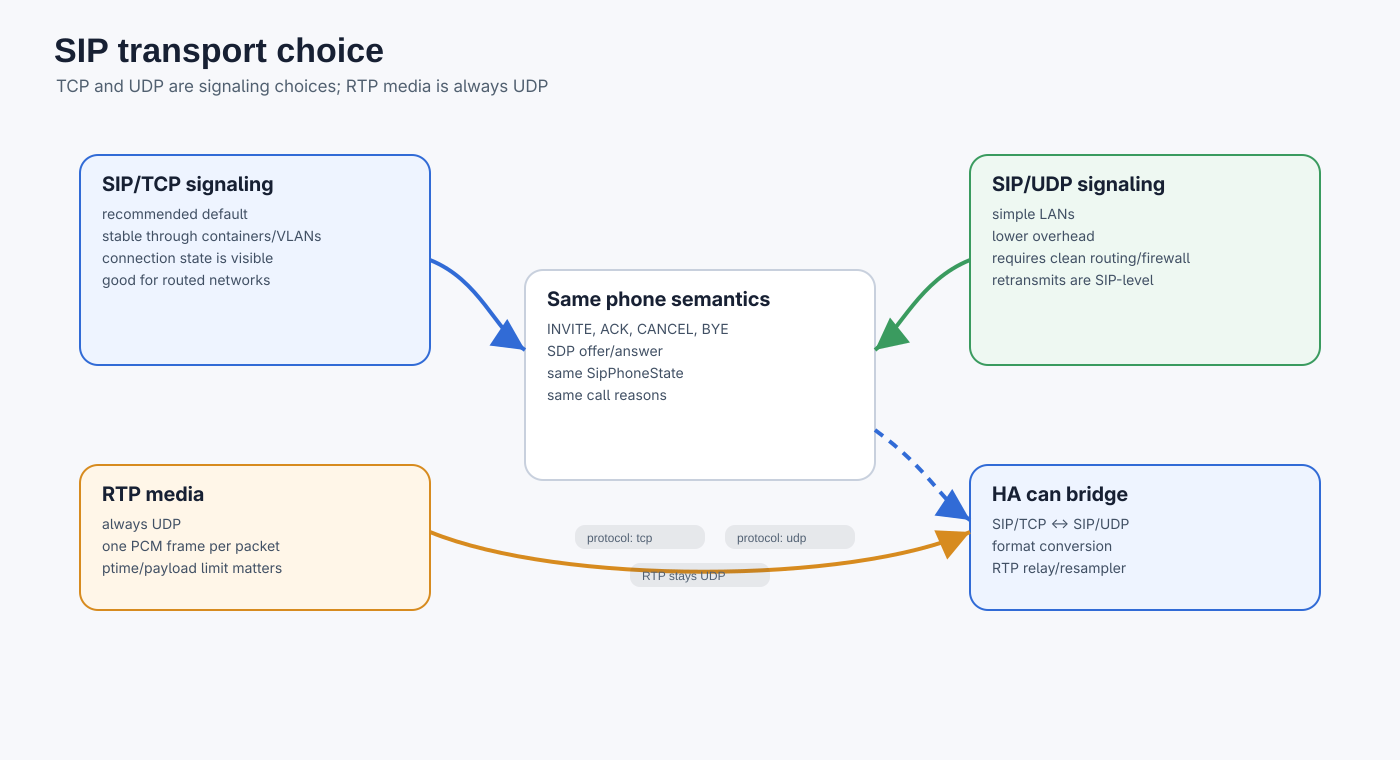
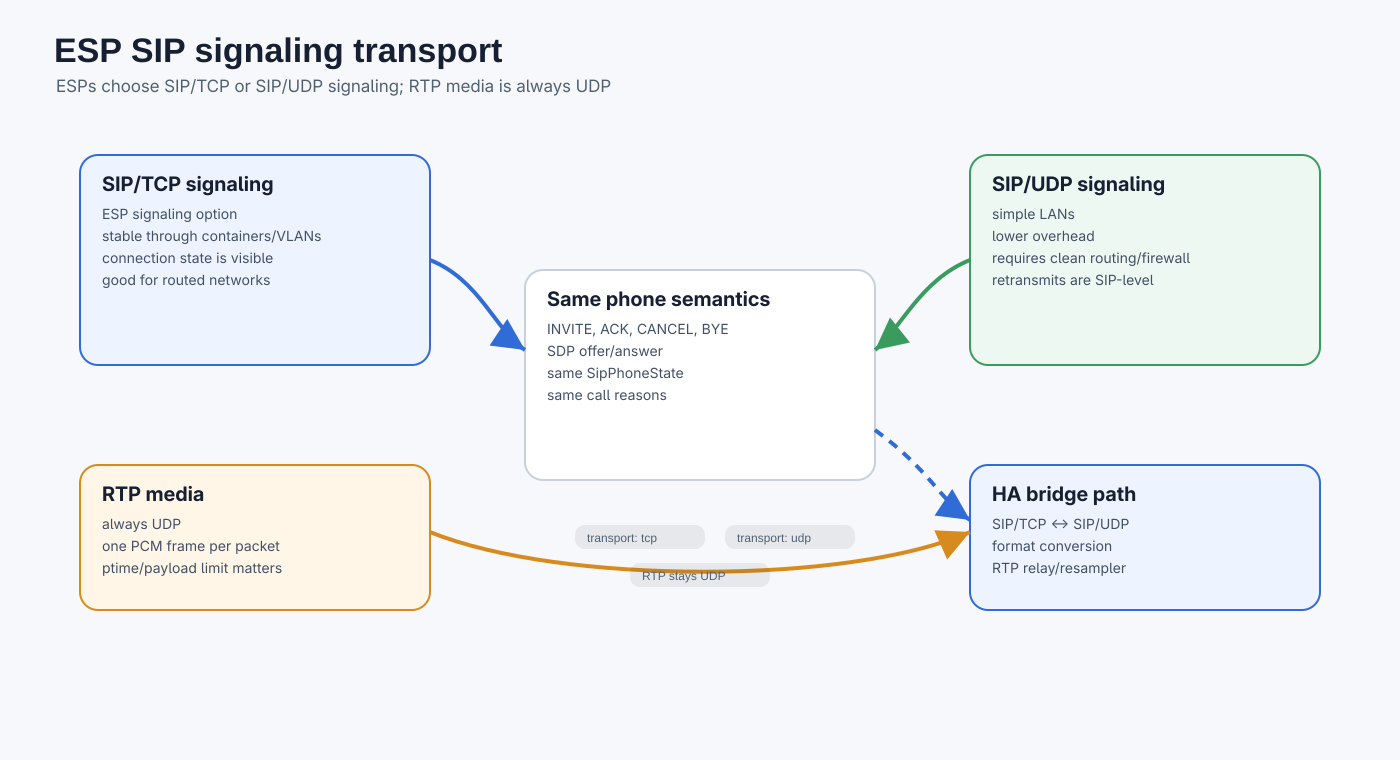
Refresh VoIP migration documentation

diff --git a/README.md b/README.md
@@ -40,6 +40,8 @@ Action required:
 - `esphome_voip_stack` remains the ESPHome component name, but `transport: udp|tcp`
   now means SIP/UDP or SIP/TCP signaling. RTP audio remains UDP in the current
   phone profile.
+- `homeassistant_voip_stack` no longer exposes local SIP transport toggles:
+  configure ports and optional features, not listener modes.
 - `homeassistant_voip_stack` can optionally register a provider/PBX trunk and can also
   host local SIP accounts for standard softphones. Trunk support is off unless
   configured.
@@ -83,7 +85,11 @@ From a single ESPHome full-duplex doorbell to a multi-device VoIP setup over Hom
 
 If your goal is simply **"I want a full-duplex intercom with Home Assistant"**, start from the ready YAMLs under [`yamls/voip-only/`](yamls/voip-only/). Pick the closest board, adjust pins and hardware options, add the ESP through the ESPHome integration, then install `homeassistant_voip_stack` in Home Assistant. HA is discovered as a destination and the ESP can call or be called from a GPIO button, LVGL button, automation, service call or Lovelace card.
 
-You will see SIP router/B2BUA language below. Do not let that scare you: it is the internal model that lets ESPs, Home Assistant and the browser card call each other consistently. You can still use it as a normal one-button intercom. The SIP router/B2BUA model matters when you add more rooms, route through HA, bridge SIP TCP and SIP UDP, or want clear ringing, decline, busy and error reasons.
+You will see SIP router/B2BUA language below. Do not let that scare you: it is
+the internal model that lets ESPs, Home Assistant and the browser card call each
+other consistently. You can still use it as a normal one-button intercom. The
+model matters when you add more rooms, route through HA, mix SIP signaling
+transports, or want clear ringing, decline, busy and error reasons.
 
 Under the hood: full-duplex I2S support, ESP-SR echo cancellation, optional dual-mic Speech Enhancement, Espressif rate conversion, audio mixing with ducking, native Home Assistant integration and a Lovelace card.
 
@@ -338,23 +344,19 @@ ESP-to-ESP calling**. Today HA is the stable phonebook authority in the standard
 YAMLs. If HA is on the network, it also joins as one more extension and can act
 as a SIP router/B2BUA bridge when routing asks for it.
 
-There is one product mode on top of two SIP signaling transports. HA
-`homeassistant_voip_stack` is a SIP softphone, SIP TCP/UDP listener, RTP bridge/resampler,
-phonebook publisher, optional registrar for local softphones and optional trunk
-client.
+There is one product mode on top of SIP. HA `homeassistant_voip_stack` is a SIP
+softphone, router/B2BUA, RTP bridge/resampler, phonebook publisher, optional
+registrar for local softphones and optional trunk client. ESP `transport:
+tcp|udp` controls only that ESP phone's SIP signaling; RTP audio remains UDP.
 
-Use TCP as the default transport when the network path must be predictable:
-routed LANs, VLANs, Docker/HA container setups, Wi-Fi segments with filtering,
-or any install where retransmission is more important than the lowest possible
-latency. Use UDP when the devices live on a simple, well-behaved LAN and you
-want the lowest protocol overhead for audio. UDP control is still SIP router/B2BUA, but
-audio datagrams are not retransmitted, so packet loss or routing/firewall
-misconfiguration shows up as audible glitches instead of delayed recovery.
-Both transports are first-class and HA can bridge between them.
+Choose ESP `transport: tcp` when routed LANs, VLANs, containers or filtered
+Wi-Fi make reliable SIP signaling easier to operate. Choose ESP
+`transport: udp` on a simple LAN where lower signaling overhead is preferred.
 
-![SIP TCP and SIP UDP transport choice](docs/images/tcp-udp-choice.png)
+![ESP SIP signaling transport](docs/images/tcp-udp-choice.png)
 
-_SIP TCP and SIP UDP expose the same SIP router/B2BUA behavior; the network decides which one is easier to operate._
+_SIP TCP and SIP UDP expose the same phone behavior. ESPs choose one signaling
+transport; routing still follows the phonebook._
 
 Routing is deterministic:
 
@@ -527,7 +529,11 @@ the ESPHome API; ESP static contacts remain local offline/custom additions.
   user speech while music, TTS or ringtone audio is playing from the speaker.
 - **Ready-to-flash YAML configs** - Optimized configurations for real, tested hardware combining Voice Assistant, Micro Wake Word and VoIP calls on the same device.
 - **Auto Answer** - Configurable automatic call acceptance (ESP-side switch + browser card checkbox).
-- **HA Services** - `homeassistant_voip_stack.sip_answer`, `decline` (with optional `reason`), `hangup`, `call`, `forward`, `purge_devices`. All registered with explicit `voluptuous` schemas (`extra=PREVENT_EXTRA`); empty target-bearing calls fail schema validation before handlers run.
+- **HA Services** - `homeassistant_voip_stack.sip_call`, `sip_answer`,
+  `sip_decline`, `sip_hangup`, `sip_forward`, `sip_route`, `sip_set_dnd`,
+  phonebook services, local SIP account services and `purge_devices`. All are
+  registered with explicit `voluptuous` schemas (`extra=PREVENT_EXTRA`);
+  empty target-bearing calls fail schema validation before handlers run.
 - **Call Forwarding** - Forward active or ringing calls to another device via automation.
 - **Ringtone on incoming calls** - Devices play a looping ringtone while ringing.
 - **Volume Control** - Adjustable Master Volume and microphone gain.
@@ -579,7 +585,8 @@ flowchart TD
     FSM <--> Audio
 ```
 
-This is the whole product in one picture: HA is a transport hub and optional bridge; the ESP owns call state, audio, and the local phonebook.
+This is the whole product in one picture: HA is the SIP routing and phonebook
+hub; each ESP owns its SIP phone state, audio path and local dial plan mirror.
 
 ### Audio format
 
@@ -735,14 +742,15 @@ Then configure Zoiper, Linphone, baresip or pjsua with:
 server: <Home Assistant advertised IP or host>
 username: MobileOffice
 password: <password generated by HA>
-transport: SIP TCP or SIP UDP, matching the enabled HA listener
+transport: SIP TCP or SIP UDP
 ```
 
-The username is also the central phonebook ID. When `MobileOffice` registers,
-HA adds a dynamic SIP contact with that name to the roster and pushes it to ESP
-devices. Deregistering, disabling the account or letting the REGISTER expire
-removes the dynamic contact. Passwords are not logged; generated passwords are
-only shown at creation/rotation time.
+Pick whichever SIP transport is easiest to operate from the softphone/network
+path. The username is also the central phonebook ID. When `MobileOffice`
+registers, HA adds a dynamic SIP contact with that name to the roster and
+pushes it to ESP devices. Deregistering, disabling the account or letting the
+REGISTER expire removes the dynamic contact. Passwords are not logged;
+generated passwords are only shown at creation/rotation time.
 
 ---
 
@@ -757,9 +765,8 @@ only shown at creation/rotation time.
 3. Find "Home Assistant VoIP Stack" and click **Download**.
 4. Restart Home Assistant.
 5. Go to **Settings → Integrations → Add Integration** → search "Home Assistant VoIP Stack" → click **Submit**.
-6. In the config flow, tick the SIP signaling transports you want. SIP TCP is on
-   by default, SIP UDP is opt-in. Default ports are SIP `5060` and RTP base
-   `40000`.
+6. In the config flow, set the SIP and RTP ports only if the defaults do not fit
+   your network. Default ports are SIP `5060` and RTP base `40000`.
 
 ![HACS custom repository](docs/images/hacs-custom-repository.png)
 
@@ -771,7 +778,7 @@ _After the repository is added, open Home Assistant VoIP Stack in HACS and downl
 
 ![Home Assistant VoIP Stack config flow](docs/images/homeassistant-voip-stack-config-flow.png)
 
-_The config flow enables the SIP TCP and SIP UDP listeners used by ESP peers and the HA SIP router/B2BUA bridge._
+_The config flow sets the HA SIP/RTP ports and optional features._
 
 The integration automatically registers the Lovelace card, no manual frontend setup needed.
 
@@ -832,7 +839,7 @@ cp -r custom_components/homeassistant_voip_stack /config/custom_components/
 Then add via UI: **Settings → Integrations → Add Integration → Home Assistant VoIP Stack**, restart Home Assistant.
 
 The integration will:
-- Bind SIP TCP and SIP UDP listener sockets on the configured ports.
+- Start the HA SIP endpoint on the configured SIP port.
 - Register the WebSocket API commands for the card.
 - Publish the SIP phonebook (`sensor.voip_phonebook`) for ESP subscribers.
 - Optionally register a provider/PBX trunk.
@@ -1114,10 +1121,9 @@ name: Kitchen Phone
 show_extended_info: true
 ```
 
-The default card mode is `hybrid`: the card mirrors one ESP endpoint. If that
-ESP selects another ESP, the card mirrors the ESP controls; if that ESP selects
-Home Assistant, the browser acts as the HA softphone leg for that ESP. To use
-Home Assistant as one independent softphone endpoint, add a separate card:
+The default card mode is `esp_mirror`: the card mirrors one ESP endpoint and
+presses that ESP's own contact, call, answer, decline and hangup controls. To
+use Home Assistant as one independent softphone endpoint, add a separate card:
 
 ```yaml
 type: custom:voip-stack-card
@@ -1131,7 +1137,7 @@ Do Not Disturb controls. It rings only for calls addressed to Home Assistant and
 does not mirror an ESP card state. Only `hybrid` cards must be bound to an ESP
 with `device_id`.
 
-The two modes intentionally display calls differently. A `hybrid` card shows
+The two modes intentionally display calls differently. An `esp_mirror` card shows
 Answer/Decline when its mirrored ESP is ringing, including the case where that
 ESP is being called by Home Assistant. A `ha_softphone` card shows Hangup while
 HA is the caller and Answer/Decline only when HA is the callee. In both
@@ -1166,7 +1172,11 @@ _The card uses the ESPHome device registry, so the device must be added to HA be
 
 ## Call Routing
 
-There is no simple/full product split. Every ESP runs the same SIP router/B2BUA state machine with a local phonebook. If the phonebook contains one HA peer, you have a one-button doorbell/room phone. If it contains multiple ESPs, the same firmware can call them directly or through HA depending on the selected routing policy.
+There is no simple/full product split. Every ESP runs the same SIP phone state
+machine with a local phonebook mirror. If the phonebook contains one HA peer,
+you have a one-button doorbell/room phone. If it contains multiple ESPs, the
+same firmware can call them directly or through HA depending on the selected
+routing policy.
 
 ![Browser calling ESP](docs/images/call-from-home-assistant-to-esp.gif)
 
@@ -1286,7 +1296,7 @@ sequenceDiagram
     participant A as 📟 ESP A
     participant B as 📟 ESP B
 
-    Note left of A: user selects B<br/>same protocol + device_independent
+    Note left of A: user selects B<br/>direct SIP route + compatible media
     A->>B: INVITE caller=A dest=B
     Note right of B: 180 Ringing
     B-->>A: 200 OK

diff --git a/docs/MEDIA_SHOT_LIST.md b/docs/MEDIA_SHOT_LIST.md
@@ -1,7 +1,7 @@
 # Media shot list
 
 This is the working list for refreshing README and documentation media for the
-`2026.5.0` release.
+`2026.7.0-dev` SIP/VoIP release.
 
 ## Primary README media
 
@@ -27,14 +27,19 @@ This is the working list for refreshing README and documentation media for the
 
 ## Installation and configuration media
 
+These screenshots must be recaptured before the stable release whenever the HA
+setup flow, card editor, card labels or entity names change. During prerelease
+work, diagram/mock assets are acceptable only when they do not document removed
+options or old component names.
+
 | Asset | Type | Purpose | Capture notes |
 |---|---|---|---|
 | `docs/images/hacs-custom-repository.png` | Screenshot | HACS custom repository setup | Captured: custom repository URL and Integration type |
 | `docs/images/hacs-download-homeassistant-voip-stack.png` | Screenshot | HACS download step | Captured: Home Assistant VoIP Stack HACS entry and download menu |
-| `docs/images/homeassistant-voip-stack-config-flow.png` | Screenshot | HA integration setup | Captured: TCP and UDP options visible |
-| `docs/images/esphome-add-device.png` | Screenshot | Add ESPHome device | Replace old screenshot if entity names or UI changed |
-| `docs/images/card-selection.png` | Screenshot | Card picker | Updated custom card name and icon |
-| `docs/images/card-configuration.png` | Screenshot | Card YAML/UI config | Captured: visual card editor and live preview |
+| `docs/images/homeassistant-voip-stack-config-flow.png` / `.svg` | Setup image | HA integration setup | Current asset: SIP/RTP ports, advertise host, Assist/debug, registrar and trunk toggles. Recapture a real HA screenshot before stable release. |
+| `docs/images/esphome-add-device.png` | Screenshot | Add ESPHome device | Recapture if entity names, device names or ESPHome onboarding UI changed. |
+| `docs/images/card-selection.png` | Screenshot | Card picker | Must show `VoIP Stack Card`, not old Intercom card names. |
+| `docs/images/card-configuration.png` | Screenshot | Card YAML/UI config | Must show current `voip-stack-card` modes and options. |
 
 ## Full voice device media
 
@@ -59,7 +64,7 @@ replace individual photos or GIFs if the UI changes before release.
 |---|---|---|---|
 | `docs/images/sip-topology.png` / `.svg` | Diagram | SIP/VoIP topology | Created: ESP SIP phones, HA softphone/router/B2BUA, local registrar, registered softphones and optional provider trunk |
 | `docs/images/phonebook-endpoint.png` / `.svg` | Diagram | SIP phonebook and dial plan | Created: endpoint publication, manual/static contacts, SIP account registration, direct/bridge/trunk/reject routing |
-| `docs/images/tcp-udp-choice.png` / `.svg` | Diagram | SIP transport guidance | Created: SIP/TCP vs SIP/UDP signaling, RTP always UDP, same phone semantics and HA bridge behavior |
+| `docs/images/tcp-udp-choice.png` / `.svg` | Diagram | ESP SIP transport guidance | Created: ESP SIP/TCP vs SIP/UDP signaling choice, RTP always UDP, HA bridge path when routing needs it |
 | `docs/images/audio-stack.png` | Diagram | Audio components | Created: `esp_audio_stack`, ESPHome consumers, `esp_afe` / `esp_aec`, codec/no-codec output paths |
 
 ## Capture order for live demo

diff --git a/docs/BREAKING_CHANGES.md b/docs/BREAKING_CHANGES.md
@@ -11,6 +11,8 @@ The practical change:
 - ESP `esphome_voip_stack` devices are now SIP phones.
 - Home Assistant `homeassistant_voip_stack` is now a SIP softphone, dial-plan authority,
   SIP router/B2BUA, RTP bridge/resampler and optional SIP trunk client.
+- Home Assistant no longer exposes local SIP transport toggles. Configure ports
+  and optional features, not listener modes.
 - Standard softphones can register to Home Assistant as local SIP accounts and
   become phonebook contacts.
 - Home Assistant can register one provider/PBX trunk, so ESPs and the HA
@@ -41,8 +43,9 @@ The active branch is intentionally SIP-first and breaking:
 
 - ESP `esphome_voip_stack` is a SIP phone. `transport: udp|tcp` means SIP signaling
   transport only.
-- HA `homeassistant_voip_stack` is a SIP softphone, dial-plan authority, SIP/RTP bridge
-  and optional SIP trunk endpoint.
+- HA `homeassistant_voip_stack` is a SIP softphone, dial-plan authority, SIP/RTP
+  bridge and optional SIP trunk endpoint. Only trunk/provider transport remains
+  configurable.
 - The retired proprietary intercom protocol is not a compatibility layer.
 - ESP discovery/scanning between standalone peers is not a functional
   primitive. Use explicit SIP URIs, ESP `static_contacts` entries or the HA

diff --git a/docs/RELEASE_2026_7_0_DEV.md b/docs/RELEASE_2026_7_0_DEV.md
@@ -90,6 +90,9 @@ VoIP call-control path is not a compatibility layer.
   disabled, trunk code is inactive. When enabled, unresolved outbound numbers
   can route through the trunk and inbound provider calls can select HA or a
   local phonebook target with RFC2833/telephone-event DTMF.
+- 🔌 HA local SIP transport toggles were removed from setup. The user configures
+  ports and optional features; only provider/PBX trunk transport remains
+  configurable.
 - 🛡️ Browser audio WebSocket sessions remain server-authoritative: if the socket
   is truly gone, the server ends the call.
 - 🔄 Browser/card reload during an active HA softphone call can explicitly rebind
@@ -303,7 +306,8 @@ VoIP call-control path is not a compatibility layer.
 - 📖 README was reworked around the 2026.7.0-dev SIP/VoIP migration first, then
   the new audio/media direction.
 - 📘 `docs/reference.md`, architecture docs, protocol docs and troubleshooting
-  docs were audited for stale 16 kHz-only assumptions.
+  docs were audited for stale 16 kHz-only assumptions and stale HA TCP/UDP setup
+  toggles.
 - 🧭 YAML selection docs now call out native high-rate paths, AFE/AEC 16 kHz
   branches, TCP vs UDP tradeoffs and Sendspin validation status.
 - 🧾 Breaking/compatibility notes were updated for the SIP/VoIP migration,

diff --git a/docs/DEPLOYMENT_GUIDE.md b/docs/DEPLOYMENT_GUIDE.md
@@ -60,9 +60,8 @@ These are first-class SIP endpoint shapes. They are not compatibility modes.
 
 ## Home Assistant
 
-Configure `homeassistant_voip_stack` with reachable SIP/RTP ports. HA is always the
-local softphone and router/B2BUA. The setup toggles only choose whether HA
-listens for SIP/TCP and/or SIP/UDP; there is no separate "HA PBX" mode.
+Configure `homeassistant_voip_stack` with reachable SIP/RTP ports. HA is always
+the local softphone and router/B2BUA. There is no separate "HA PBX" mode.
 
 If HA is behind NAT, VPN, LXC, Docker, or multiple subnets, set the integration
 advertise host so ESPs and softphones see a reachable SIP Contact/SDP address.

diff --git a/docs/SIP_TRUNK.md b/docs/SIP_TRUNK.md
@@ -9,10 +9,9 @@ inbound DTMF collector is started.
 
 ## Setup Flow
 
-The first Home Assistant VoIP Stack setup step configures HA's local SIP endpoint:
+The first Home Assistant VoIP Stack setup step configures HA's local SIP
+endpoint identity and media ports:
 
-- SIP/TCP listener
-- SIP/UDP listener
 - SIP port
 - RTP base port
 - advertised host/IP

diff --git a/docs/PHONEBOOK_PROTOCOL.md b/docs/PHONEBOOK_PROTOCOL.md
@@ -2,8 +2,8 @@
 
 The phonebook is the SIP dial plan shared by ESP devices, Home Assistant,
 registered local softphones and the optional trunk. SIP is implicit everywhere:
-fields named `transport`, `sip_transport` or `transport` only choose SIP/TCP or
-SIP/UDP signaling, never a second call-control protocol.
+fields named `transport` or `sip_transport` only choose SIP/TCP or SIP/UDP
+signaling, never a second call-control protocol.
 
 ## ESP Static Contacts
 

diff --git a/docs/troubleshooting.md b/docs/troubleshooting.md
@@ -25,7 +25,9 @@ collect:
 
 ## HA Softphone Does Not Ring
 
-- Confirm HA SIP TCP/UDP listener readiness in logs.
+- Confirm HA reports both implicit SIP listeners ready in logs:
+  `SIP UDP listener ready`, `SIP TCP listener ready` and
+  `SIP endpoint enabled on UDP+TCP/<port>`.
 - Confirm the INVITE Request-URI reaches HA's advertised host and SIP port.
 - Check HA softphone DND and active-call state. A second inbound call while HA
   is ringing or in-call should receive busy.